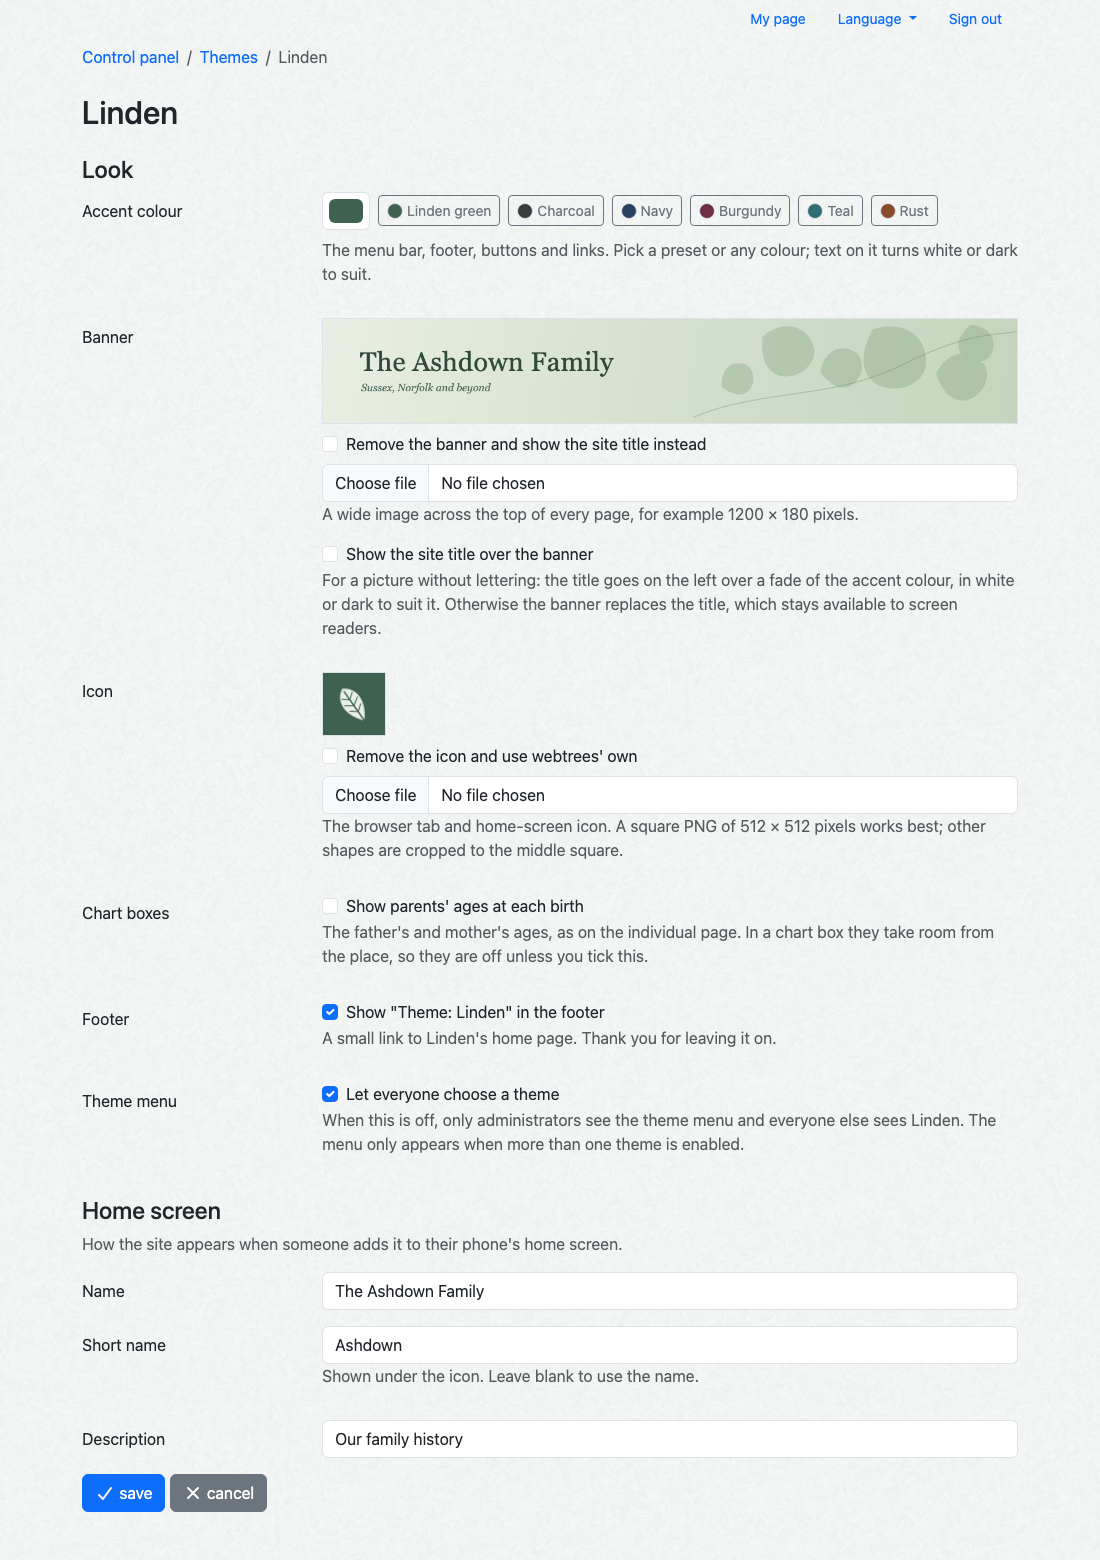
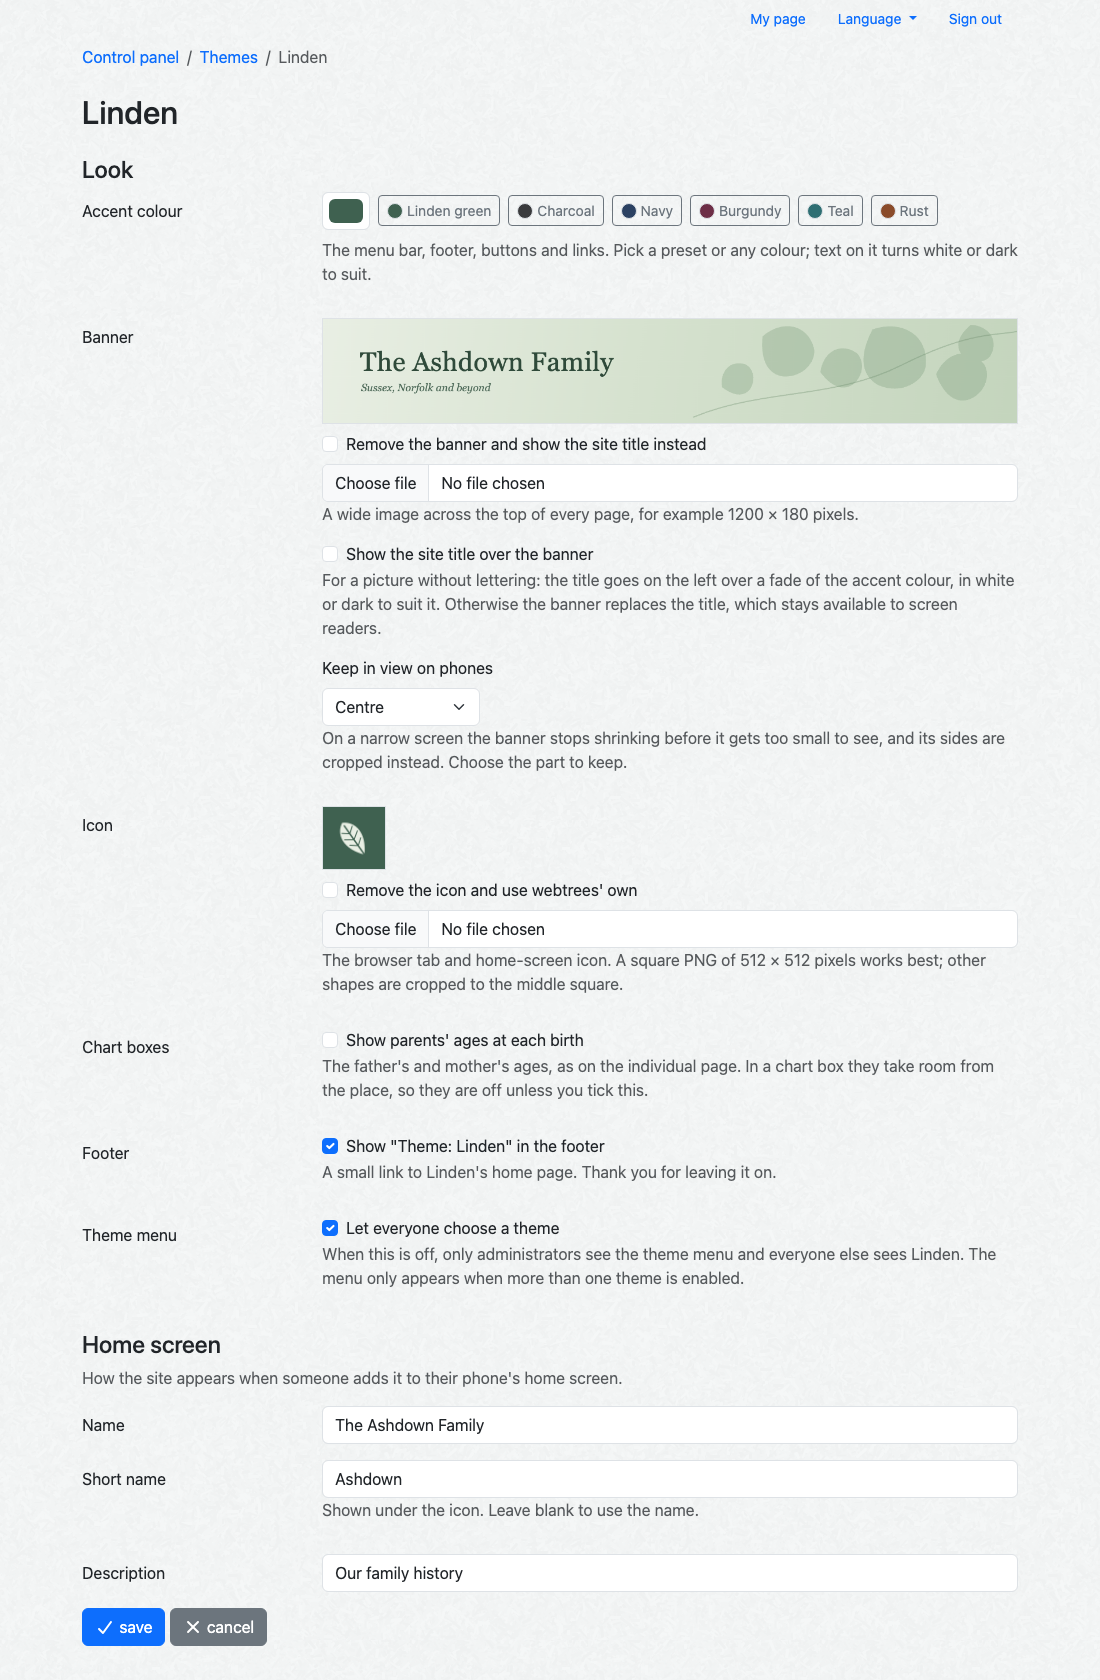
Linden 1.3.0

diff --git a/LindenTheme.php b/LindenTheme.php
@@ -93,7 +93,7 @@ class LindenTheme extends MinimalTheme implements ModuleConfigInterface, ModuleC
 
     public function customModuleVersion(): string
     {
-        return '1.2.0';
+        return '1.3.0';
     }
 
     public function customModuleSupportUrl(): string

diff --git a/CHANGELOG.md b/CHANGELOG.md
@@ -1,6 +1,6 @@
 # Changelog
 
-## Unreleased
+## 1.3.0 (2026-11-01)
 
 - Print styles: pages print in black on white without buttons, tabs, filters or paging; the
   individual page prints in one column, and charts print sideways, scaled to fit.
